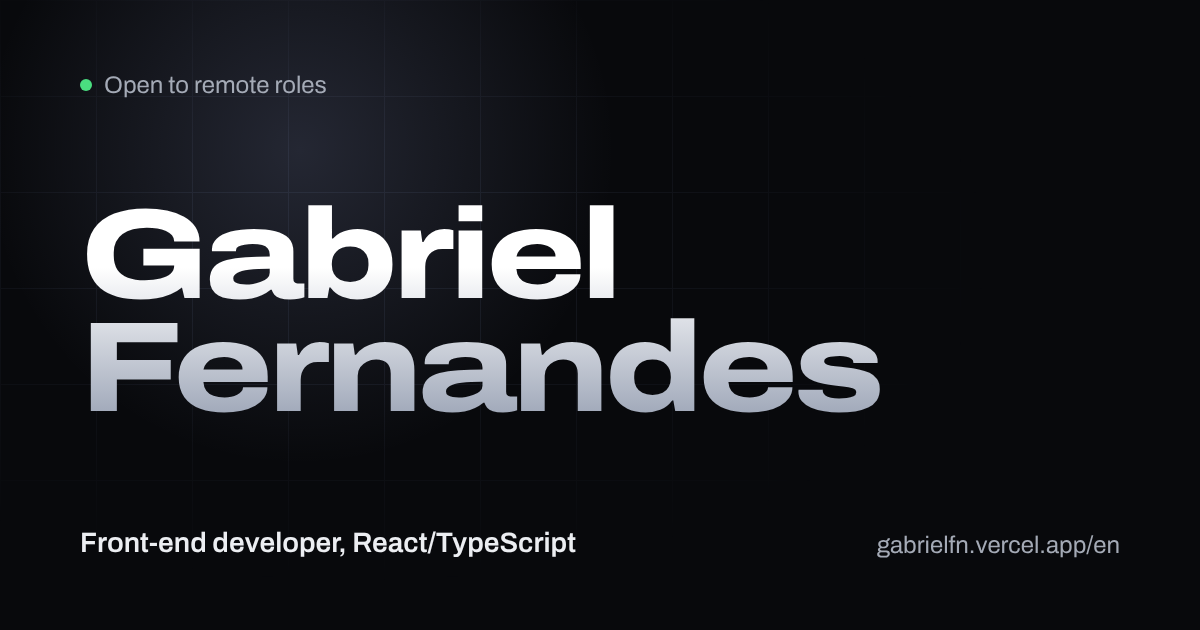
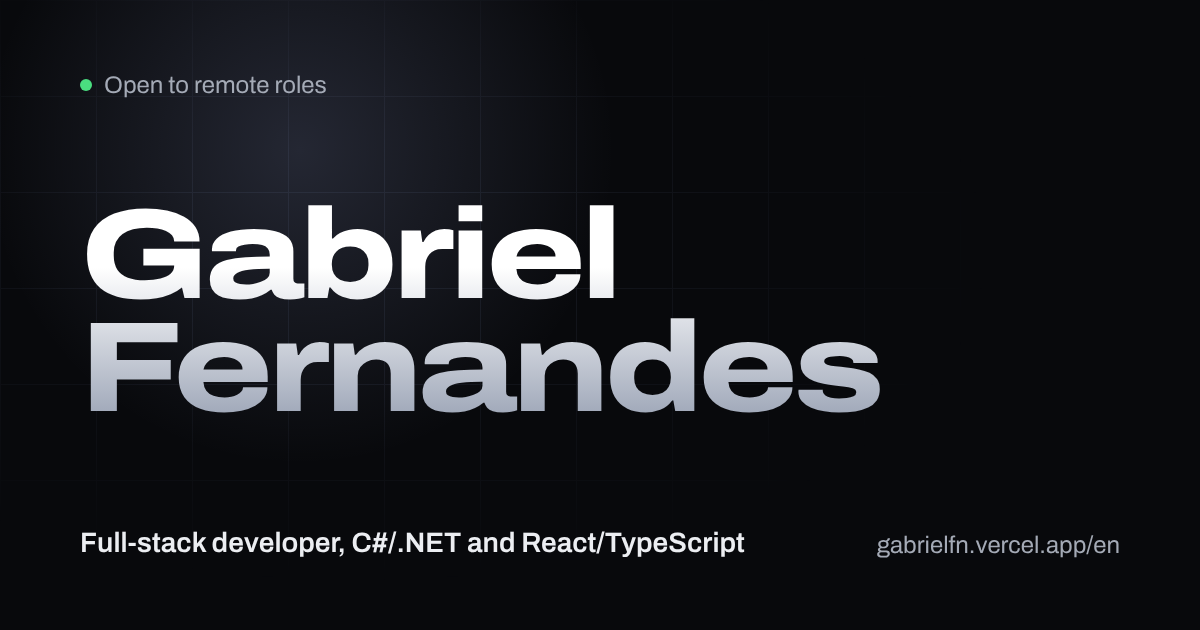
feat(content): reposition profile as full-stack developer
Lead with back-end experience (C#/.NET, ASP.NET Core, EF Core,
SQL Server, PostgreSQL) in the role, meta description, intro, stack
order and about section, in both languages. Regenerate the share
images with the new role.

Claude-Session: https://claude.ai/code/session_01AKekSGrmyRCaAfhFfaEPWK

Changed region(s): [[0.0617, 0.8444, 0.6167, 0.9048]]

diff --git a/content/en.ts b/content/en.ts
@@ -14,10 +14,10 @@ export const en: Dict = {
   altPath: "/",
   altLabel: "PT",
   altLang: "pt-BR",
-  role: "Front-end developer, React/TypeScript",
+  role: "Full-stack developer, C#/.NET and React/TypeScript",
   description:
-    "Front-end developer (React/TypeScript) with 12 years in financial software: micro frontends, design systems, React Native and AI-assisted development.",
-  titleSuffix: "Front-end developer",
+    "Full-stack developer with 12 years in financial software: C#/.NET APIs, SQL Server and PostgreSQL, React/TypeScript front ends, React Native and AI-assisted development.",
+  titleSuffix: "Full-stack developer",
   availability: "Open to remote roles",
   nav: [
     { href: "#experiencia", label: "Experience" },
@@ -53,7 +53,7 @@ export const en: Dict = {
     prototype: "Design prototype",
   },
   intro:
-    "Twelve years building the front end of financial software: consortium systems at Newcon and B2B payments at Blu. On the side, I ship my own products.",
+    "Twelve years building financial software end to end, from the API to the UI: consortium systems at Newcon and B2B payments at Blu. On the side, I ship my own products.",
   highlights: [
     { value: "12 years", label: "in financial software, from consortium systems to B2B payments" },
     { value: "25 → 5 min", label: "deploy time at Blu after I moved 10+ modules to micro frontends" },
@@ -163,18 +163,22 @@ export const en: Dict = {
   ],
   stack: [
     {
+      area: "Back end",
+      items: "C#, .NET, ASP.NET Core, Entity Framework Core, REST APIs, Node.js (Fastify), WCF/SOAP",
+    },
+    { area: "Databases", items: "SQL Server, PostgreSQL" },
+    {
       area: "Front end",
       items:
-        "React, TypeScript, JavaScript, Redux, React Query, micro frontends (single-spa, Module Federation), design systems, Storybook",
+        "React, Next.js, TypeScript, JavaScript, Redux, React Query, micro frontends (single-spa, Module Federation), design systems, Storybook",
     },
-    { area: "Mobile", items: "React Native" },
-    { area: "Back end", items: "C#, ASP.NET Core, REST APIs, SQL Server, PostgreSQL" },
+    { area: "Mobile", items: "React Native (Expo)" },
     { area: "AI", items: "Claude Code, Spec-Driven Development, LLM pipelines, prompt engineering" },
     { area: "Quality", items: "Jest, Testing Library, Cypress, accessibility, Sentry, Datadog" },
     { area: "Infra", items: "Docker, Kubernetes, Harness (CI/CD), Git and GitHub" },
   ],
   about: [
-    "I started with C#/.NET and React on consortium systems. In recent years I've focused on the front end with React and TypeScript, micro frontends and mobile apps, owning features from technical spec to deploy.",
+    "I started as a full-stack developer with C#/.NET, SQL Server and React on consortium systems. At Blu I focused on React and TypeScript, micro frontends and mobile apps, owning features from technical spec to deploy. In my own products I bring both sides together: ASP.NET Core APIs with PostgreSQL and React Native apps.",
     "Today I work with AI-assisted development using Spec-Driven Development: before any code is generated, I write the requirements, component contracts and acceptance criteria. The AI implements from that, and I own the architecture and review all of the code.",
   ],
   education: [

diff --git a/content/pt.ts b/content/pt.ts
@@ -7,10 +7,10 @@ export const pt = {
   altPath: "/en/",
   altLabel: "EN",
   altLang: "en",
-  role: "Desenvolvedor front-end React/TypeScript",
+  role: "Desenvolvedor fullstack C#/.NET e React/TypeScript",
   description:
-    "Desenvolvedor front-end React/TypeScript com 12 anos em sistemas financeiros: micro frontends, design systems, React Native e desenvolvimento assistido por IA.",
-  titleSuffix: "Desenvolvedor front-end",
+    "Desenvolvedor fullstack com 12 anos em sistemas financeiros: APIs em C#/.NET, SQL Server e PostgreSQL, front-end em React/TypeScript, React Native e desenvolvimento assistido por IA.",
+  titleSuffix: "Desenvolvedor fullstack",
   availability: "Disponível para vagas remotas",
   nav: [
     { href: "#experiencia", label: "Experiência" },
@@ -48,7 +48,7 @@ export const pt = {
     prototype: "Protótipo de design",
   },
   intro:
-    "Doze anos construindo o front-end de sistemas financeiros: consórcios na Newcon e pagamentos B2B na Blu. Nas horas vagas, publico meus próprios produtos.",
+    "Doze anos construindo sistemas financeiros de ponta a ponta, da API à interface: consórcios na Newcon e pagamentos B2B na Blu. Nas horas vagas, publico meus próprios produtos.",
   highlights: [
     {
       value: "12 anos",
@@ -199,15 +199,17 @@ export const pt = {
 
   stack: [
     {
+      area: "Back-end",
+      items:
+        "C#, .NET, ASP.NET Core, Entity Framework Core, APIs REST, Node.js (Fastify), WCF/SOAP",
+    },
+    { area: "Banco de dados", items: "SQL Server, PostgreSQL" },
+    {
       area: "Front-end",
       items:
-        "React, TypeScript, JavaScript, Redux, React Query, micro frontends (single-spa, Module Federation), design systems, Storybook",
+        "React, Next.js, TypeScript, JavaScript, Redux, React Query, micro frontends (single-spa, Module Federation), design systems, Storybook",
     },
-    { area: "Mobile", items: "React Native" },
-    {
-      area: "Back-end",
-      items: "C#, ASP.NET Core, APIs REST, SQL Server, PostgreSQL",
-    },
+    { area: "Mobile", items: "React Native (Expo)" },
     {
       area: "IA",
       items:
@@ -224,7 +226,7 @@ export const pt = {
   ],
 
   about: [
-    "Comecei com C#/.NET e React em sistemas de consórcio. Nos últimos anos foquei em front-end com React e TypeScript, micro frontends e apps mobile, conduzindo funcionalidades da especificação técnica ao deploy.",
+    "Comecei como desenvolvedor fullstack com C#/.NET, SQL Server e React em sistemas de consórcio. Na Blu, foquei em React e TypeScript, micro frontends e apps mobile, conduzindo funcionalidades da especificação técnica ao deploy. Nos meus produtos, junto os dois lados: APIs em ASP.NET Core com PostgreSQL e apps em React Native.",
     "Hoje trabalho com desenvolvimento assistido por IA seguindo Spec-Driven Development: antes de gerar código, escrevo requisitos, contratos de componentes e critérios de aceite. A IA implementa a partir disso, e eu defino a arquitetura e reviso todo o código.",
   ],
 
